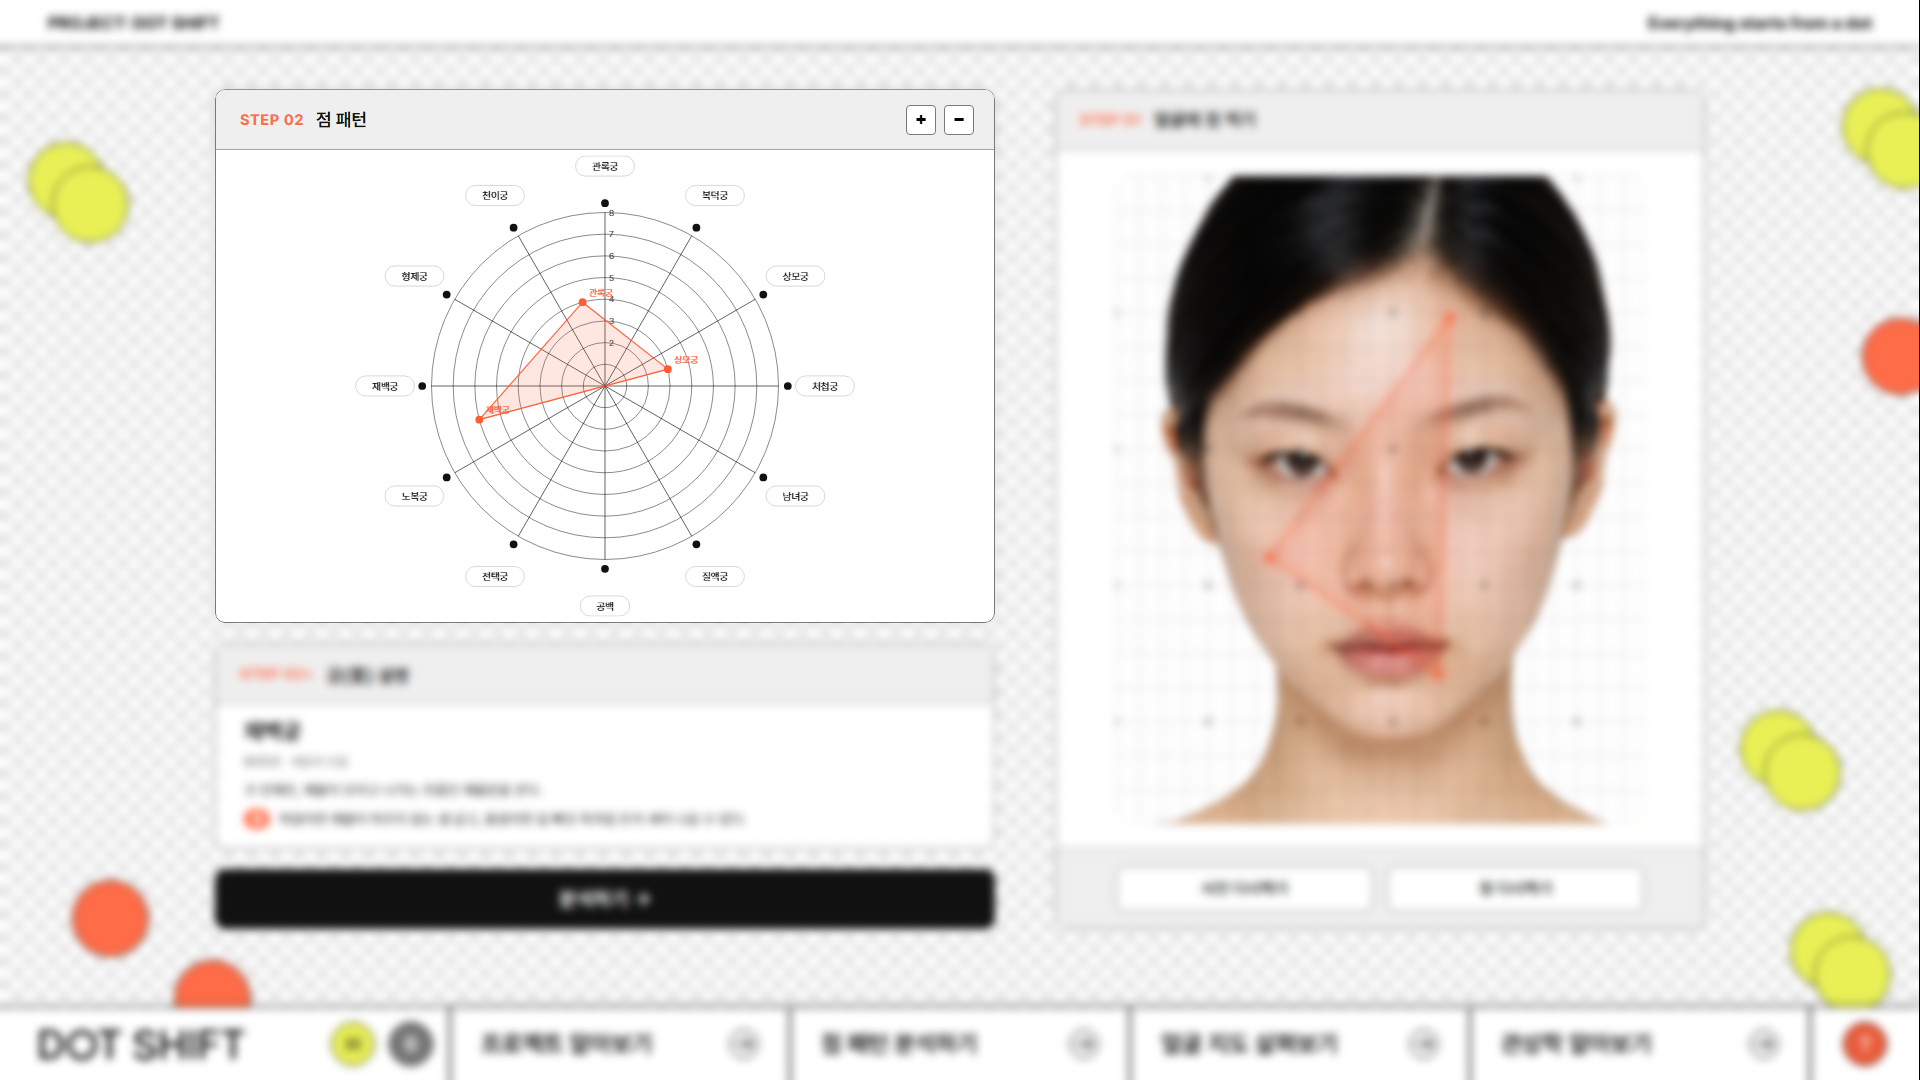
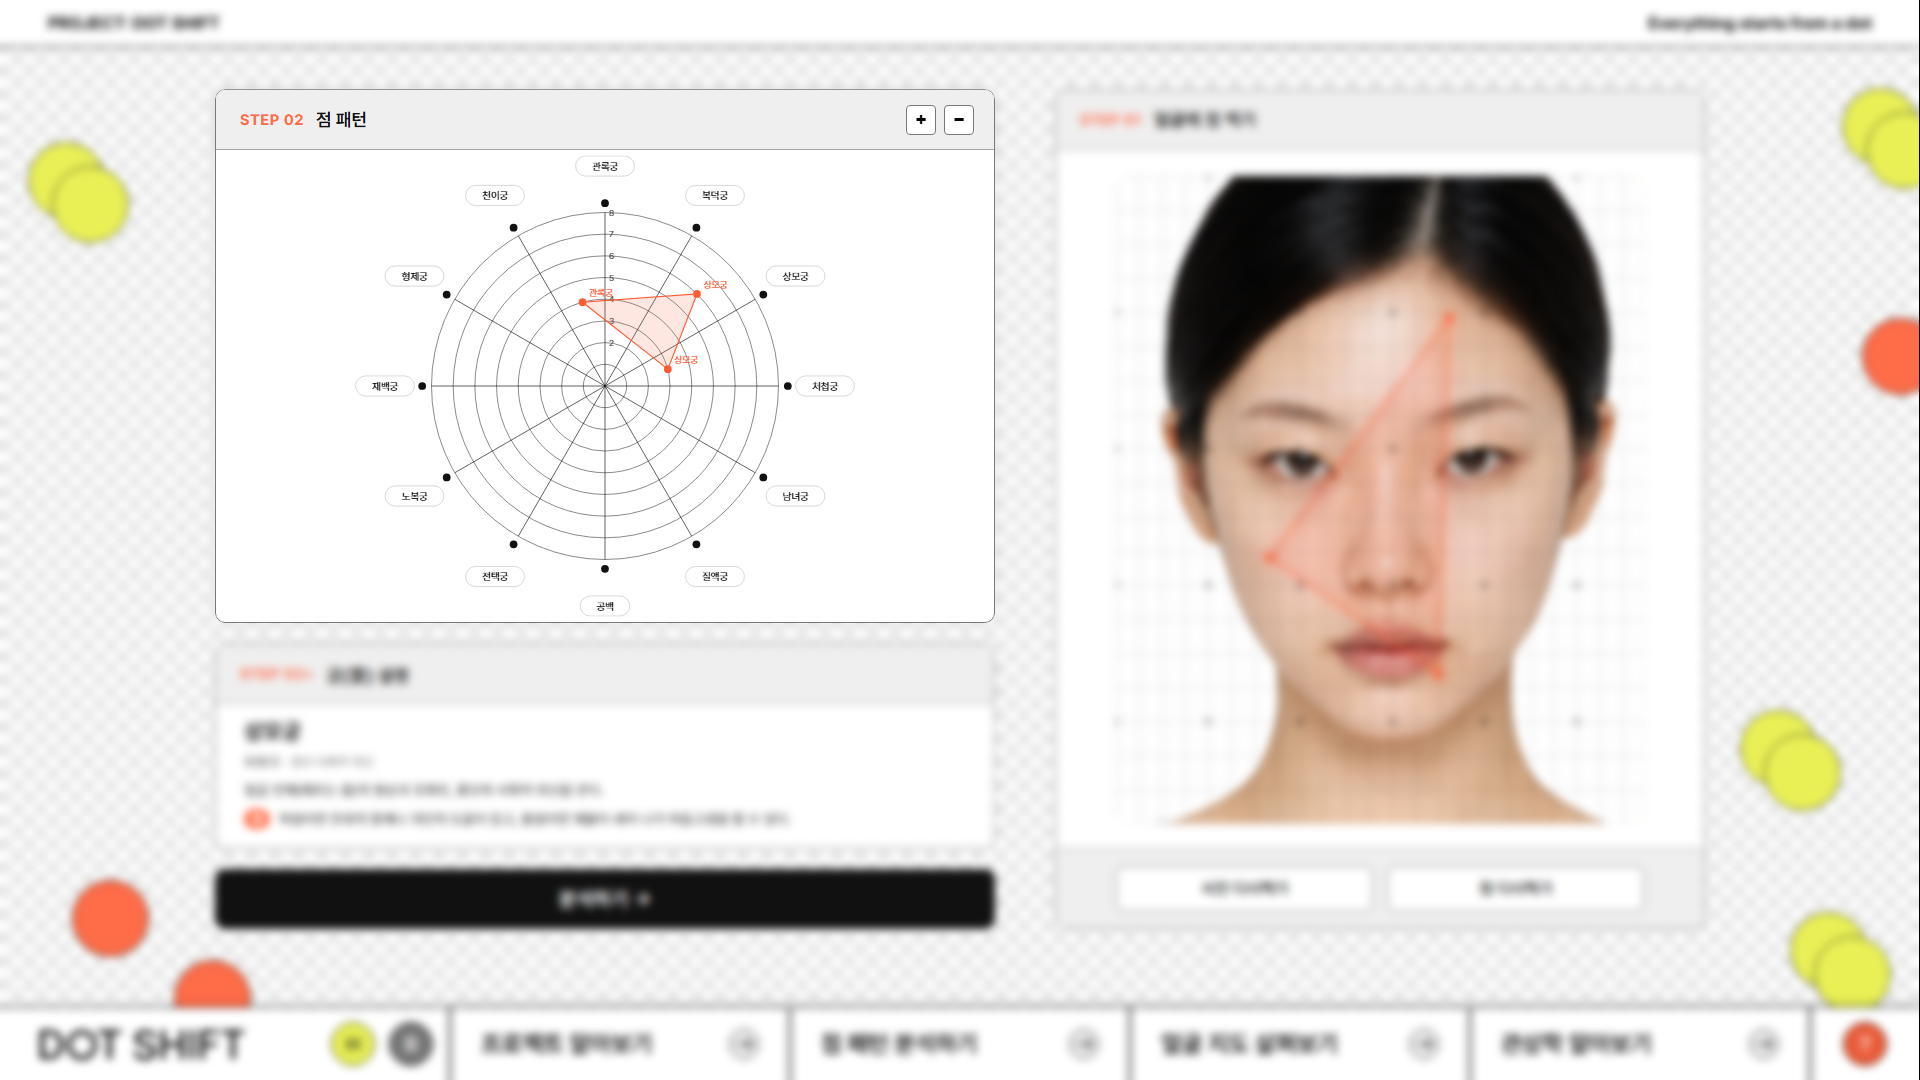
메인 히어로 화면 비율 대응, 궁 판정 위치 보정
- 메인: 27인치 아이맥 구도를 기준으로 폭·높이 함께 맞춤, 얼굴은 화면 양끝 기준이라 와이드에서도 끝에서 잘림
- 점 찍기: 궁 판정을 실제 얼굴 부위에 맞게 (질액궁 두 눈 사이, 재백궁 코 전체, 남녀궁 눈 밑, 명궁 미간)
- 도움말 슬라이드 4·5 다시 캡처

Changed region(s): [[0.25, 0.2444, 0.375, 0.3972], [0.2812, 0.7028, 0.3125, 0.7639], [0.375, 0.7333, 0.4062, 0.7639]]

diff --git a/system.js b/system.js
@@ -189,7 +189,11 @@ function showPalaceDesc(name) {
 function getPalaceName(dx, dy) {
   const adx = Math.abs(dx);
 
-  // 이마 상단 (dy > 2)
+  // 칸 높이 기준 (사진 830 을 19칸): 카메라 가이드에 맞춰 찍으면
+  // 눈썹 ≈ dy 1~2, 눈 ≈ dy 0, 애교살 ≈ dy -1, 코 ≈ dy -1~-5, 입 ≈ dy -6~-8, 턱 ≈ dy -9 이하
+  // (예시 얼굴 위에 구역을 칠해 맞춤. 눈은 가운데에서 약 3~7칸 옆)
+
+  // 이마 (dy > 2): 가운데 관록궁, 양쪽 복덕궁, 이마 모서리 천이궁
   if (dy > 2) {
     if (adx <= 2) return '관록궁';
     if (adx <= 6) return '복덕궁';
@@ -197,44 +201,44 @@ function getPalaceName(dx, dy) {
     return '공백';
   }
 
-  // 눈썹 (dy 1~2)
+  // 눈썹 (dy 1~2): 두 눈썹 사이 명궁, 눈썹 형제궁, 눈썹 끝~관자놀이 처첩궁
   if (dy >= 1) {
     if (adx <= 1) return '명궁';
-    if (adx <= 5) return '형제궁';
-    if (adx <= 9) return '처첩궁';
+    if (adx <= 7) return '형제궁';
+    if (adx <= 10) return '처첩궁';
     return '공백';
   }
 
-  // 미간 / 눈 (dy -1~1)
-  if (dy >= -1) {
-    if (adx <= 1) return '명궁';
-    if (adx <= 4) return '전택궁';
-    if (adx <= 9) return '처첩궁';
+  // 눈 (dy 0): 두 눈 사이 콧대 시작 질액궁, 눈두덩·눈 전택궁, 눈꼬리~관자놀이 처첩궁
+  if (dy === 0) {
+    if (adx <= 1) return '질액궁';
+    if (adx <= 7) return '전택궁';
+    if (adx <= 10) return '처첩궁';
     return '공백';
   }
 
-  // 코 / 볼 상단 (dy -4~-1)
-  if (dy >= -4) {
-    if (adx <= 2) return '질액궁';
-    if (adx <= 5) return '남녀궁';
-    if (adx <= 8) return '상모궁';
+  // 눈 밑 (dy -1): 콧대 재백궁, 애교살 남녀궁, 광대 쪽 상모궁
+  if (dy === -1) {
+    if (adx <= 1) return '재백궁';
+    if (adx <= 7) return '남녀궁';
+    if (adx <= 9) return '상모궁';
     return '공백';
   }
 
-  // 인중 / 볼 중단 (dy -6~-4)
-  if (dy >= -6) {
-    if (adx <= 3) return '재백궁';
+  // 코 (dy -2~-5): 코 재백궁, 볼 상모궁
+  if (dy >= -5) {
+    if (adx <= 2) return '재백궁';
+    if (adx <= 9) return '상모궁';
+    return '공백';
+  }
+
+  // 인중·입 (dy -6~-8): 상모궁 (얼굴 전체의 조화)
+  if (dy >= -8) {
     if (adx <= 7) return '상모궁';
     return '공백';
   }
 
-  // 입 / 볼 하단 (dy -8~-6)
-  if (dy >= -8) {
-    if (adx <= 5) return '상모궁';
-    return '공백';
-  }
-
-  // 턱 (dy < -8)
+  // 턱 (dy -9 이하)
   if (adx <= 6) return '노복궁';
   return '공백';
 }

diff --git a/main.css b/main.css
@@ -16,11 +16,14 @@ body {
 /* 2번째 섹션: 아직 진입 동작이 없어(기존에도 화면 밖 대기) 숨겨 둠 */
 #section2 { display: none; }
 
-/* 히어로 그림 단위: 1920 미만에서는 화면폭에 정비례(그림 비율 유지),
-   그 이상에서는 --u 를 따른다. 글자(부제·툴팁)는 --u 를 써서 확대가 반영된다. */
+/* 히어로 그림 단위: 27인치 아이맥(2560 폭)에서 맞춘 구도를 어떤 화면 비율에서도 똑같이.
+   그 화면에서 1920×1080 디자인은 화면 폭의 90%(×1.2)로 보였음 →
+   폭 기준 0.9 × 100vw/1920 과 높이 기준 100dvh/1080 중 작은 값 (구도 전체가 늘 화면 안에, 비율 유지).
+   16:9 보다 넓은 화면은 높이에 맞춰 양옆이, 좁은(높은) 화면은 폭에 맞춰 위아래가 노란 여백으로 남음.
+   부제 글자도 같은 단위라 인물·타이틀과의 관계가 그대로. */
 .heroMain,
 #dotsLayer {
-  --hu: min(var(--u), 100vw / 1920);
+  --hu: min(100vw * 0.9 / 1920, 100dvh / 1080);
 }
 
 /* ── 메인 히어로 영역: 뷰포트 전체를 채움 ── */
@@ -81,7 +84,9 @@ body {
 /* ── 좌측 인물 ── */
 .portraitLeft {
   position: absolute;
-  left: calc(50% + (-450 - 960) * var(--hu));
+  /* 화면 왼쪽 끝 기준: 아이맥에서처럼 얼굴이 화면 끝에서 잘리게 (와이드 화면에서도 같음).
+     폭 기준일 때 50% = 1066.67 hu 이므로 -450-960 + 1066.67 = -343.33 → 16:9 이하에선 예전 위치와 동일 */
+  left: calc(-343.33 * var(--hu));
   top: calc(50% + (24.71 - 540) * var(--hu));
   pointer-events: none;
 }
@@ -95,7 +100,8 @@ body {
 /* ── 우측 인물 ── */
 .portraitRight {
   position: absolute;
-  right: calc(50% + (-470 - 960) * var(--hu));
+  /* 화면 오른쪽 끝 기준 (위와 같은 방식: -470-960 + 1066.67 = -363.33) */
+  right: calc(-363.33 * var(--hu));
   top: calc(50% + (-62 - 540) * var(--hu));
   width: calc(1011 * var(--hu));
   height: calc(1355 * var(--hu));
@@ -141,10 +147,10 @@ body {
 .titleSub {
   font-family: 'Pretendard', sans-serif;
   font-weight: 400;
-  font-size: calc(22 * var(--u));
+  font-size: calc(22 * var(--hu));
   color: #000;
   text-align: center;
-  margin-top: calc(16 * var(--u));
+  margin-top: calc(16 * var(--hu));
   letter-spacing: 0;
 }
 
